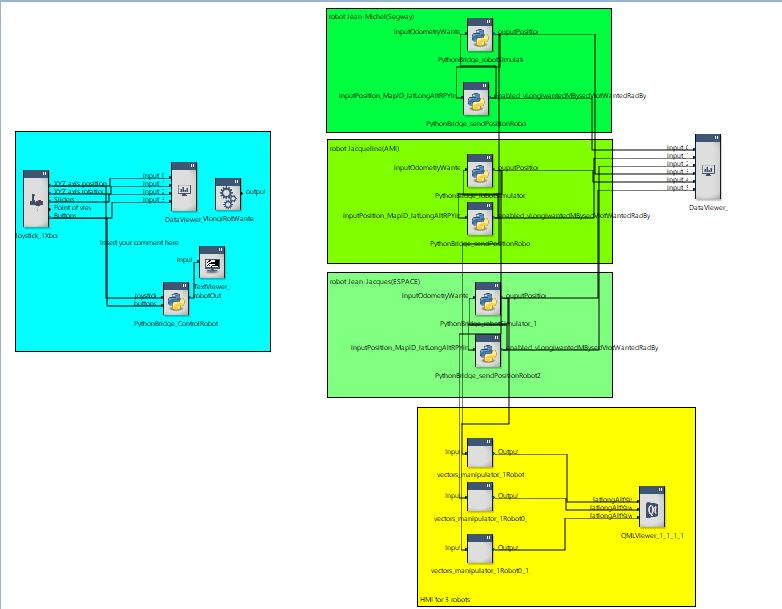
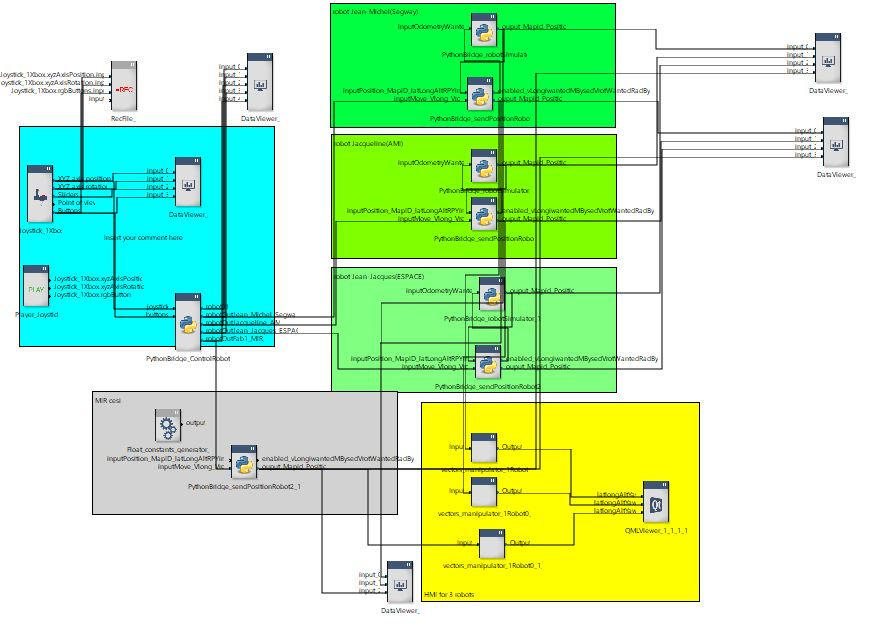
vav commit, documentation updated

diff --git a/ClientGesture.py b/ClientGesture.py
@@ -14,6 +14,9 @@ import sys
 import socket 
 import subprocess
 
+#modify under linux or if python is installed somewhere else
+PYTHONEXE="C:\\ProgramData\\Anaconda3\\python.exe"
+
 class MyRobotClient():
 	
 	def __init__(self,client,idx,currentRobotDescription):
@@ -249,9 +252,9 @@ class ClientGesture():
 	
 		
 		if not disableSubProcess:
-			#self.subp = subprocess.Popen(["C:\\ProgramData\\Anaconda3\\python.exe", "-c", command], stdin=subprocess.PIPE, stdout=subprocess.PIPE, stderr=subprocess.PIPE)#
+			#self.subp = subprocess.Popen([PYTHONEXE, "-c", command], stdin=subprocess.PIPE, stdout=subprocess.PIPE, stderr=subprocess.PIPE)#
 			
-			self.subp = subprocess.Popen(["C:\\ProgramData\\Anaconda3\\python.exe", "-c", command],shell=False)
+			self.subp = subprocess.Popen([PYTHONEXE, "-c", command],shell=False)
 		#print ("read:"+str(subp.stdout.read(10)))
 		
 	def creaThreadAndRunIt(self,periodInS):

diff --git a/README.md b/README.md
@@ -2,7 +2,7 @@
 
 projet to try to create an architecture to communicate with robots from/to Rtmaps and ROS
 
-The basic example in rtmaps directory allowed the possibility to operate several robots (3) from a main controller with Xbox joysticK
+The basic example in rtmaps directory allowed the possibility to operate several robots (4) from a main controller with Xbox joysticK
 
 
 # installs done :
@@ -25,28 +25,91 @@ work is based o git https://github.com/FreeOpcUa/opcua-asyncio
 
 # server side
 * To beguin to use it with your robots, modify file robotDescription.py file.
-(The principe, is that all data availaibles in your robot (ROBOT_LIST) will be availaible in the server area and client will have access to it)
+(The principe, is that all data availaibles in your robot (ROBOT_LIST) will be availaible in the server area and client will have access to it).
+The file must be the same on the server side and the client side, if you are not the server administrateur contact him to do the modification
 
 * run the server (cd opcuaRt\server\ then python server-with-encryption.py)
+some parameters need to be filled to work well :
+    - ENCRYPT : True if you want to user cerver with encryption
+    - ADMIN_DICT : dictionary of certificate (usefull with you are using encryption)
+    - USER_DICT : dictionary of certificate for user (cannot modify variables)
+    - url: url where to the server bind
+    - namespace : just a namespace
+# client side (general informations)
+
+to have access to method defined in  robotDescription.py, just modify clientGesture.py to add id decorated like following :
+for example for methode "moveToPose" the python decoration will be :
+```
+@automatically_call_fromDescription
+def moveToPose(self,timestamp, mapId, poseXYZrXYZ):
+    """ask to go to a pose"""
+    pass
+```
+
+# client side (ROS1)
+
+* needed before:
+    ROS1 (ros noetic in my case, but can easyly be adapted to other ros)
+    python3 with asyncua, utm, scipy ...
+
+* how to run it :
+    - with vscode open directory :\ROS\catkin_ws 
+    - run the task "catkin_make" (if you have a different ros installation, do not hesitate to modify the task)
+    - run the task "run ros 1 launch" (if you have a different ros installation, do not hesitate to modify the task)
+
+* how to configure it :
+    - opcuaRt.launch : contain parameter to opc ua (certificate, url, enable encryp) and default position for robot simulator  
+
+* what happened :
+    there is two nodes, 
+    - colibry_robot_simulator.py : robot simulator by integrating velocity command to generate a pose
+    - robot_sender : interface asyncua with the robot, input are position, output are velocity command read from network and position read from network
+
+
+# client side (ROS2)
+* needed before:
+    ROS2 (ros rolling in my case, but can easyly be adapted to other ros)
+    python3 with asyncua, utm, scipy ...
+
+* how to run it :
+    - with vscode open directory :\ROS\ros2_ws 
+    - run the task "colcon build" (if you have a different ros installation, do not hesitate to modify the task)
+    - run the task "ros 2 launch" (if you have a different ros installation, do not hesitate to modify the task)
+
+* how to configure it :
+    - script_launch.py : contain parameter to opc ua (certificate, url, enable encryp) and default position for robot simulator 
+
+* what happened :
+    there is two nodes, 
+    - colibry_robot_simulator.py : robot simulator by integrating velocity command to generate a pose
+    - robot_sender : interface asyncua with the robot, input are position, output are velocity command read from network and position read from network
+
+# client side (RtMaps)
+
+For rtmaps the architecture is different because rtmaps python do not allow the ability to do multiprocess or multithread.
+
+* for this reasons a python script call opcuaRt\client\multiRunner.py must be run before to open rtmaps, the goal is to do interface between rtmaps (by udp) and opcua rt. In this file you can configure parameters to interface with opc ua rt :
+    - ROBOT_ALLOWED_LIST : the list of robot allowed for control (robot names must be robot specified in robotDescription.py)
+    - ENCRYPT : encrypt or not the communication
+    - certificate, privatekey (if encryption enabled)
+    - communicationPeriod : time in s betweent two communication with server
 
 * If you have rtmaps windows on your computer, you can open diagramme "rtmaps\robot1Diagram.rtd"
 
-On the diagramme, 
+On the diagramme :
 * blue part it a rtmaps python component to control the robots (button LT is deadman, left joystick control longi and rot speed, button A is to control previous robot, button Y is to controll next robot )
 * green part are component to read robot information (like wanted longi speed, rot speed), send to the server the current robot pose (mapId, lat, long, alt, roll, pitch, yaw(in rad)) and a simple pythonrobot simulator (simple runge Kutta simulation )
+* grey part is compoenent to read a robot under linux
+* yellow part is an hmi to display robot pose on a map
 ![](images/rtmapsdiagram.jpg )
 
 When you run the diagram, you must obtain a qml windows with 3 robots simulated and the capacity to move the 3 robots with your xbox joystick
 
 ![](images/visualiser.jpg )
 
-## know bug
-* authentification with certificate is not working well with my anaconda from rtmaps under windows (but is working well from my anaconda), so encryption is disabled for the moment but can easily be enabled again
 
 ## comming soon 
-    * ros node to interface a robot
-    * next developements will be the availaibility to control other kind of robots
+    * possibility to upload image stream :)
 
-###########
 
 
